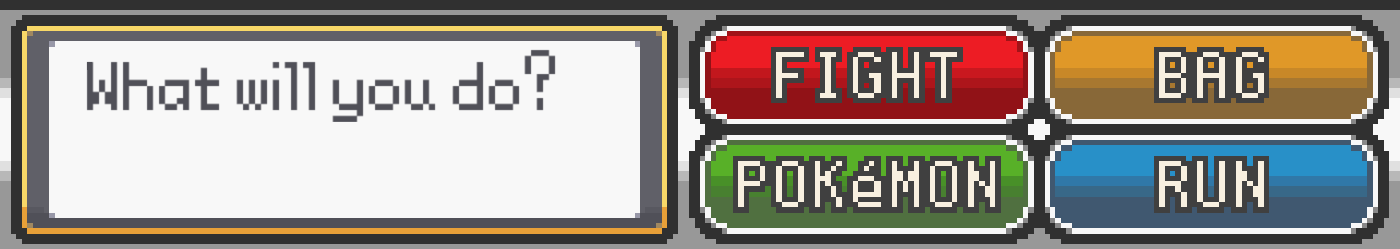
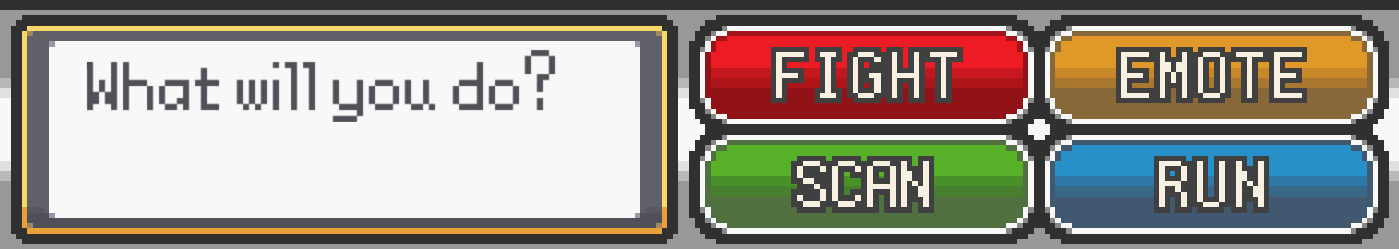
gui hehe

diff --git a/animation.py b/animation.py
@@ -138,7 +138,11 @@ while (running):
     gui = pygame.transform.scale(gui,(1050, 187))
     speaker = pygame.image.load(os.path.join('assets','audio',sppath+'.png')).convert_alpha()
     speaker = pygame.transform.scale(speaker,(100,100))
+    r_emoji = str(random.randint(0,9))
+    emoji = pygame.image.load(os.path.join('assets','art',r_emoji+'.png')).convert_alpha()
+    emoji = pygame.transform.scale(emoji,(100,100))
     
+
     #Setting up game music
     if audio not in l:
         l.clear()
@@ -236,12 +240,17 @@ while (running):
                 if (x in range(780,1040) and y in range(565,650)):
                     pygame.mixer.Sound.play(sel_sound)
                     path = 'mainmenu'
+            
+            #Emote
+            if path == 'mainmenu' and (x in range(785,1035) and y in range(525,610)):
+                    screen.blit(emoji , [pimageX+300, pimageY])
 
         if event.type == pygame.KEYDOWN:
             if event.key == pygame.K_SPACE:
                 if path == 'fight':
                     path = 'mainmenu'
-    
+
+
     if mainscreen == 'bgimg':
         screen.blit(gui,[0,513])
 
